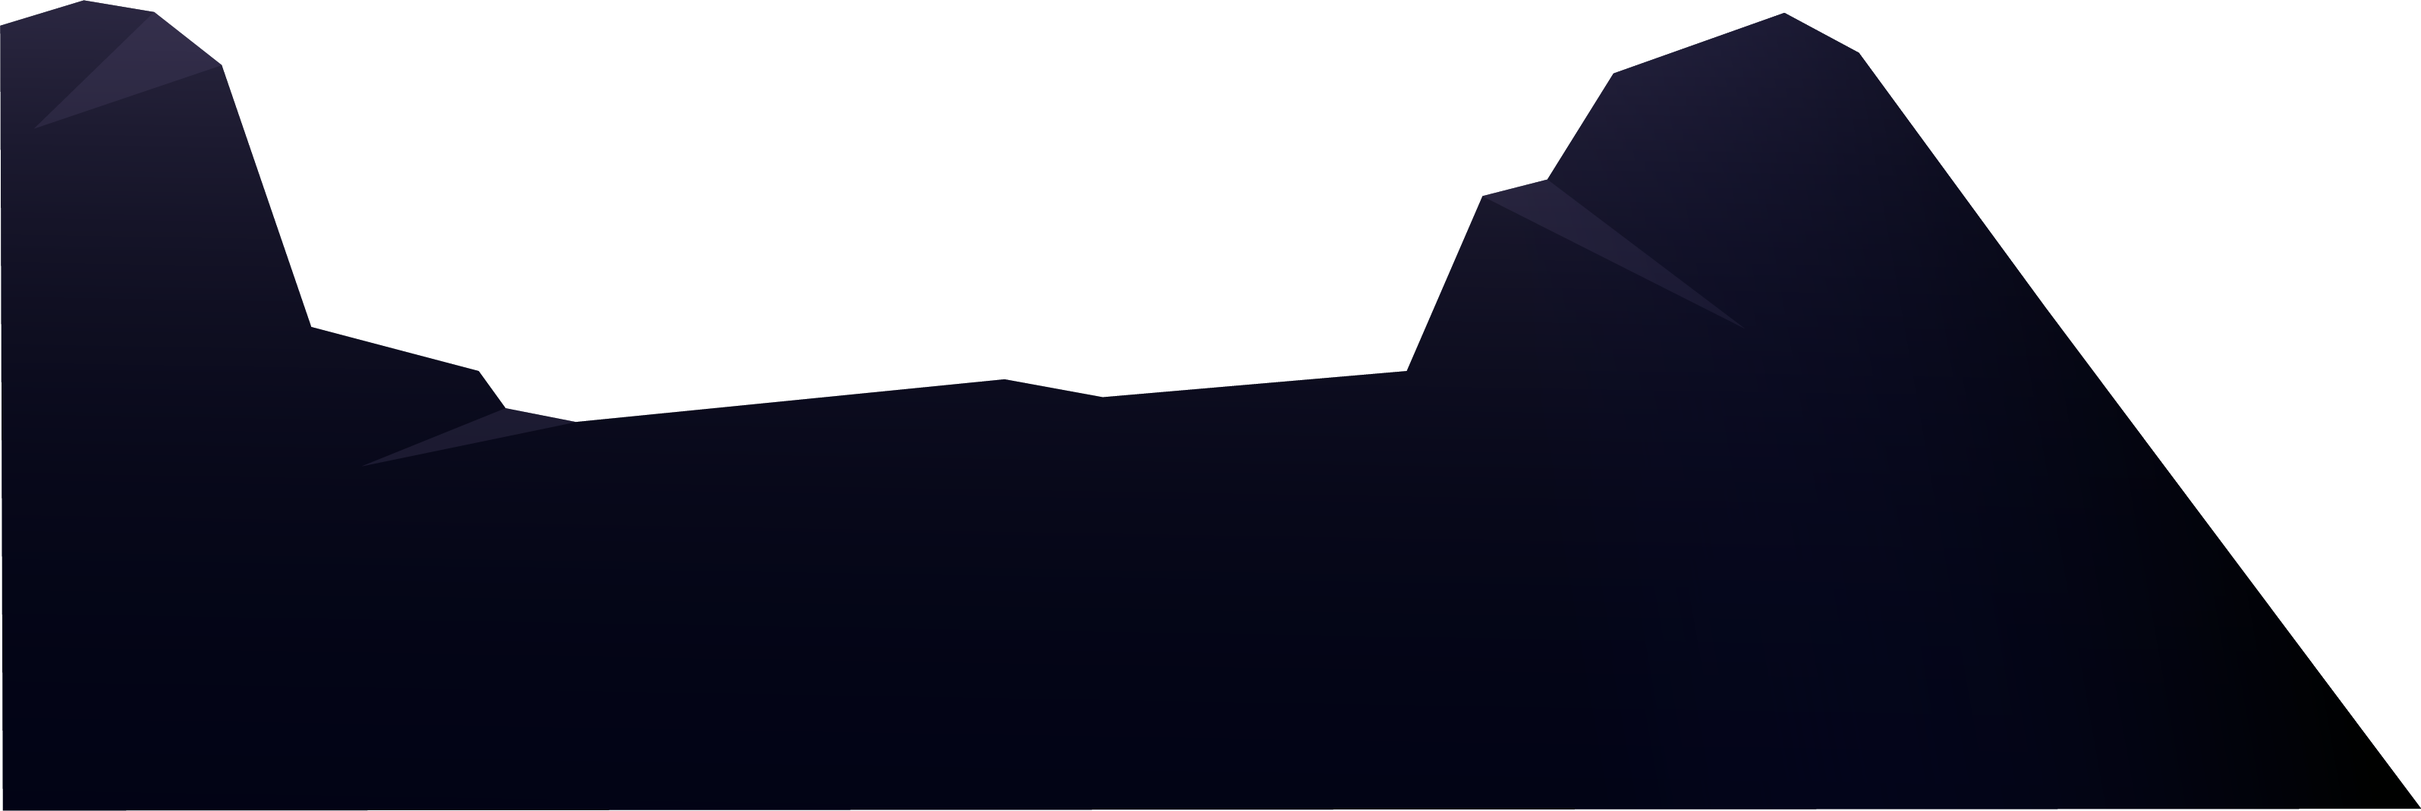
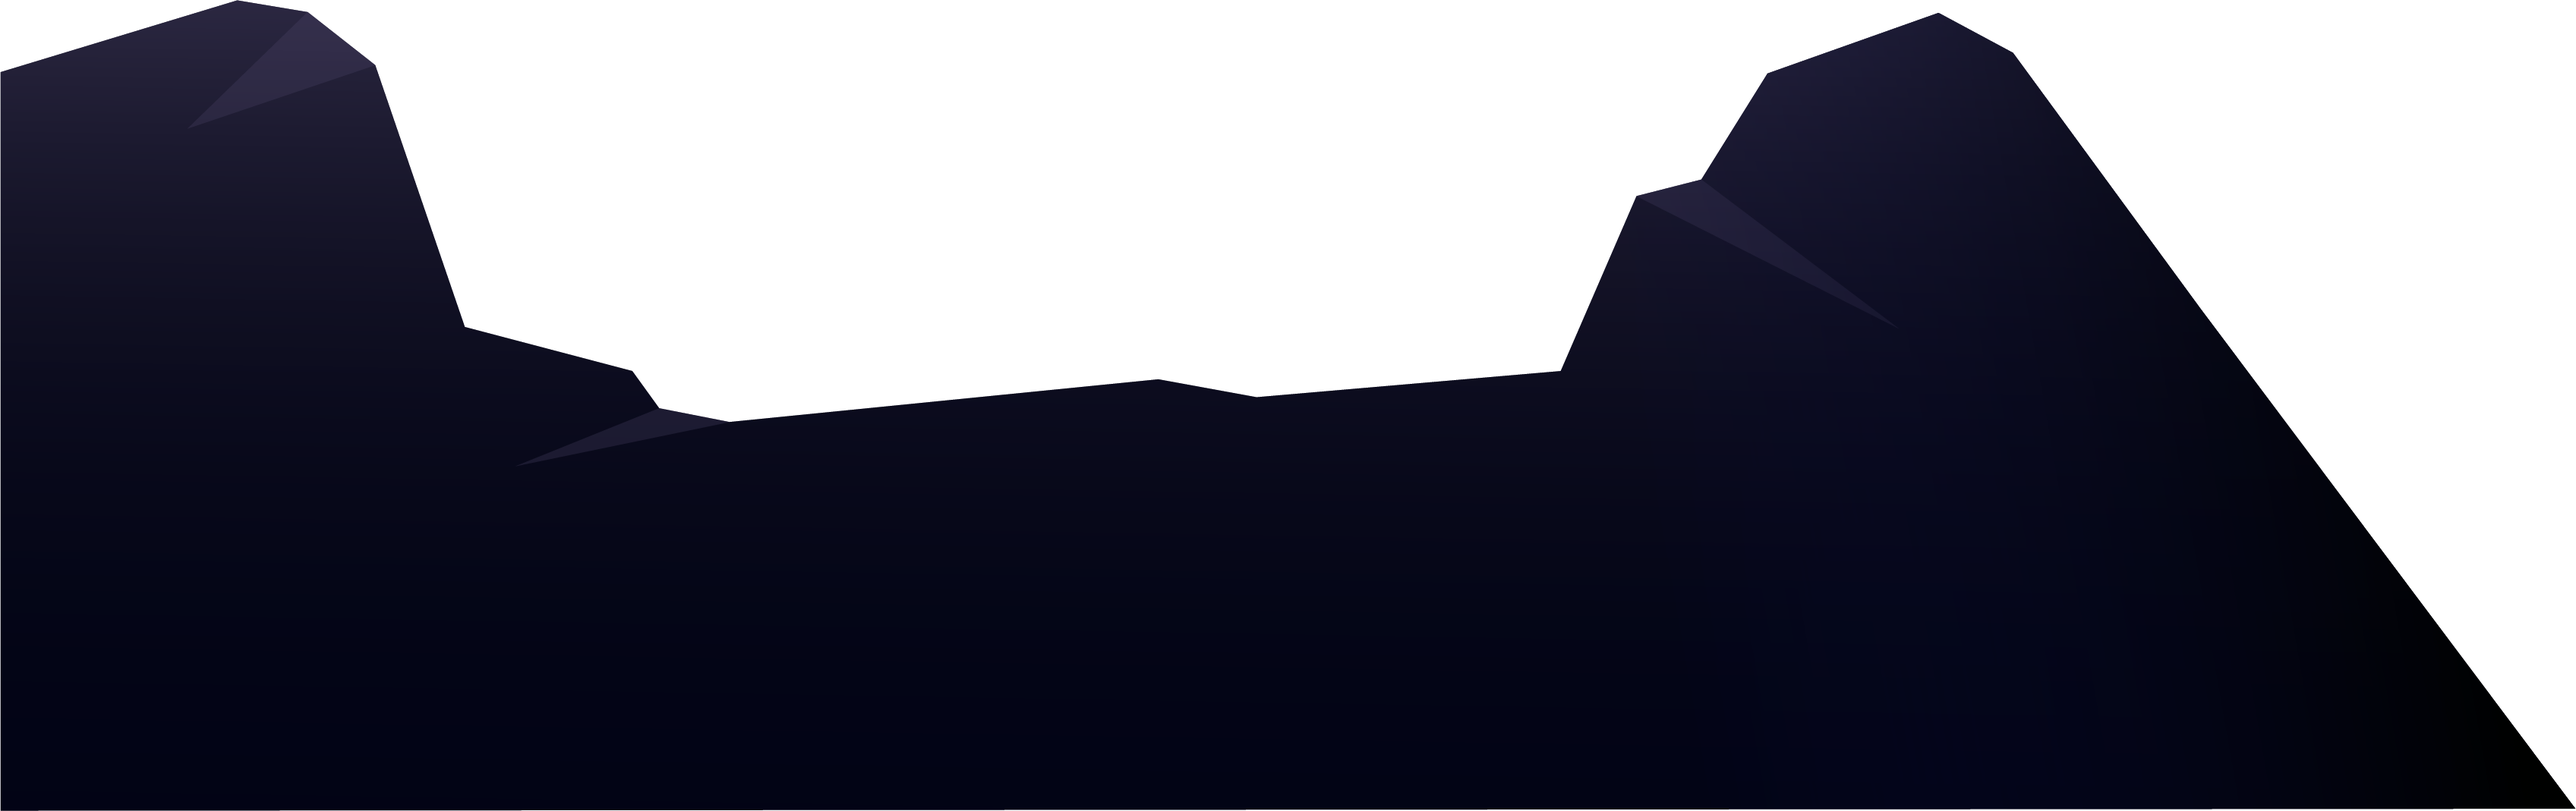
Chapter27 : improve parallax

diff --git a/src/components/Chapter/datas/chapter27.js b/src/components/Chapter/datas/chapter27.js
@@ -26,9 +26,9 @@ export default {
     },
     {
       "src": imageList.chapters.chapter27.scene01.Chap27_scene01_rochers,
-      "left" : 0,
+      "left" : "-0.05%",
       "bottom" : -2,
-      "speedX": 10,
+      "speedX": -15,
     },
     {
       "src": imageList.chapters.chapter27.scene01.Chap27_scene01_pilier1,
@@ -94,10 +94,11 @@ export default {
     {
       "src": imageList.chapters.chapter27.scene01.Chap27_scene01_hera,
       "left" : "11.4%",
-      "bottom": "11%",
+      "bottom": "24%",
       "speedX": 21,
+      "speedY": 4,
       "zIndex": 18,
-      "rotate": -14
+      "rotate": -8
     },
     {
       "src": imageList.chapters.chapter27.scene01.Chap27_scene01_pilier3,
@@ -395,12 +396,12 @@ export default {
       "bottom": "-0.6%",
       "speedX": 12
     },
-    {
-      "src": imageList.chapters.chapter27.scene05.Chap27_scene05_rochers3,
-      "left" : "93.5%",
-      "bottom": "-0.1%",
-      "speedX": 0,
-    },
+    // {
+    //   "src": imageList.chapters.chapter27.scene05.Chap27_scene05_rochers3,
+    //   "left" : "93.5%",
+    //   "bottom": "-0.1%",
+    //   "speedX": 0,
+    // },
     {
       "src": imageList.chapters.chapter27.scene05.Chap27_scene05_zeus,
       "left" : "114.5%",
@@ -422,20 +423,22 @@ export default {
       "styles": {
         "width": "3.4%",
         "height": "88%",
-        "left": "0.05%",
+        "left": "0.050%",
         "top": "7%",
         "zIndex": 18
-      }
+      },
+      "speedX": 10
     },
     {
       "source": animationList.chapters.chapter27.eclairPalais,
       "styles": {
         "width": "3.4%",
         "height": "90%",
-        "left": "0.1%",
+        "left": "0.04%",
         "top": "-10%",
         "zIndex": 16
-      }
+      },
+      "speedX": 12
     },
     {
       "source": animationList.chapters.chapter27.nuagesPalais,
@@ -461,11 +464,11 @@ export default {
     },
     {
       "source": animationList.chapters.chapter27.eclairLeft,
-      "speedX": 25,
+      "speedX": 18,
       "styles": {
         "width": "3.9%",
         "height": "100%",
-        "left": "4.9%",
+        "left": "5.2%",
         "top": "-12%",
         "zIndex": 5
       }
@@ -533,7 +536,7 @@ export default {
   "beginText": {
     "styles": {
       "left": "0.5%",
-      "bottom": "1%",
+      "bottom": "4%",
       "zIndex": 30,
       "width": 800,
       "alignItems": "center"
@@ -647,7 +650,7 @@ export default {
     {
       // le deuxieme cyclope
       "styles" : {
-        "bottom": "7%",
+        "bottom": "9%",
         "left": 69.35,
         "width": 1.53
       }

diff --git a/src/components/Chapter/Chapter.js b/src/components/Chapter/Chapter.js
@@ -248,7 +248,7 @@ class Chapter extends React.Component {
             <Animated.View style={
               [{
                 width: 150,
-                paddingTop: 50,
+                paddingTop: 15,
                 opacity: this._buttonVisibility.interpolate({
                   inputRange: [0, 100],
                   outputRange: [0, 1]
